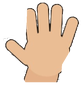
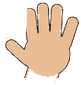
Add files via upload

diff --git a/style.css b/style.css
@@ -261,10 +261,10 @@ body{background:linear-gradient(180deg,#e6f3ee 0,var(--bg) 220px)}
 .nurse{position:relative;display:inline-block;line-height:0;flex:none}
 .nurse img{display:block}
 .nurse img.hand,.nurse img.snd{position:absolute;height:auto;max-width:none;margin:0;border-radius:0;box-shadow:none;pointer-events:none}
-.hello .art .nurse img.hand,.dev .stage .nurse img.hand{left:76.263%;top:26.752%;width:20.455%;height:auto;transform-origin:53.086% 94.118%;animation:nwave 3.2s ease-in-out .6s infinite}
-.hello .art .nurse img.snd,.dev .stage .nurse img.snd{left:93.182%;top:36.146%;width:6.818%;height:auto;animation:nsnd 3.2s ease-in-out .6s infinite}
+.hello .art .nurse img.hand,.dev .stage .nurse img.hand{left:76.263%;top:26.752%;width:20.455%;height:auto;transform-origin:54.321% 92.941%;animation:nwave 3.2s ease-in-out .6s infinite}
+.hello .art .nurse img.snd,.dev .stage .nurse img.snd{left:94.192%;top:35.51%;width:5.808%;height:auto;animation:nsnd 3.2s ease-in-out .6s infinite}
 .hello .art .nurse img.base{margin:0 -4px 0 0}
-@keyframes nwave{0%,62%,100%{transform:rotate(0)}8%{transform:rotate(-16deg)}18%{transform:rotate(12deg)}28%{transform:rotate(-16deg)}38%{transform:rotate(12deg)}48%{transform:rotate(-14deg)}56%{transform:rotate(6deg)}}
+@keyframes nwave{0%,62%,100%{transform:rotate(0)}8%{transform:rotate(-9deg)}18%{transform:rotate(8deg)}28%{transform:rotate(-9deg)}38%{transform:rotate(8deg)}48%{transform:rotate(-8deg)}56%{transform:rotate(4deg)}}
 @keyframes nsnd{0%,62%,100%{opacity:.35;transform:translateX(0)}8%,28%,48%{opacity:1;transform:translateX(2px)}18%,38%,56%{opacity:.45;transform:translateX(0)}}
 @media (prefers-reduced-motion:reduce){.nurse img.hand,.nurse img.snd{animation:none!important}}
 

diff --git a/app.js b/app.js
@@ -1,5 +1,5 @@
 'use strict';
-const APP_VERSION = '1.8.0';
+const APP_VERSION = '1.8.1';
 const KEY = 'pnj_raasu_v1';
 const ICONS = ['🌡','❄','🧊','🩸','💉','🛡','📋','❤','🛏','💧','🩺','💊','🩹','🧰','🔬','🧪','🦷','🫁','🧠','🚑','🧼','🧴','🏥','⭐','👑','🏆','📅','📝','📊','🔔'];
 const THEMES = {

diff --git a/sw.js b/sw.js
@@ -1,5 +1,5 @@
 /* PNJ RAASU service worker  — เปลี่ยน VERSION ทุกครั้งที่อัพเดท (ใช้ bump_version.py) */
-const VERSION = '1.8.0';
+const VERSION = '1.8.1';
 const CACHE = 'pnj-raasu-' + VERSION;
 const SHELL = [
   './', './index.html', './style.css', './app.js', './manifest.webmanifest',
